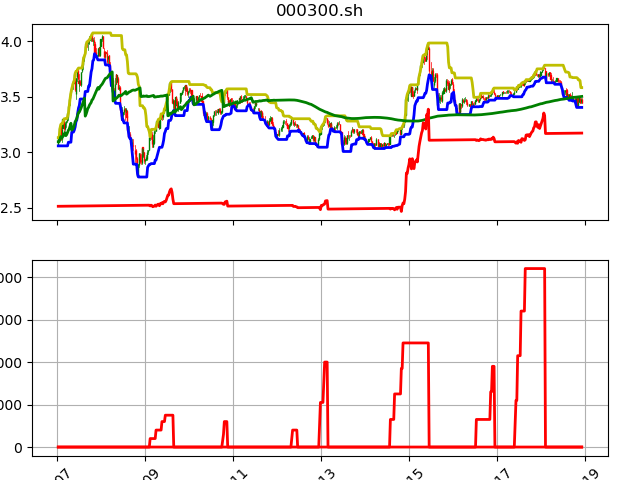
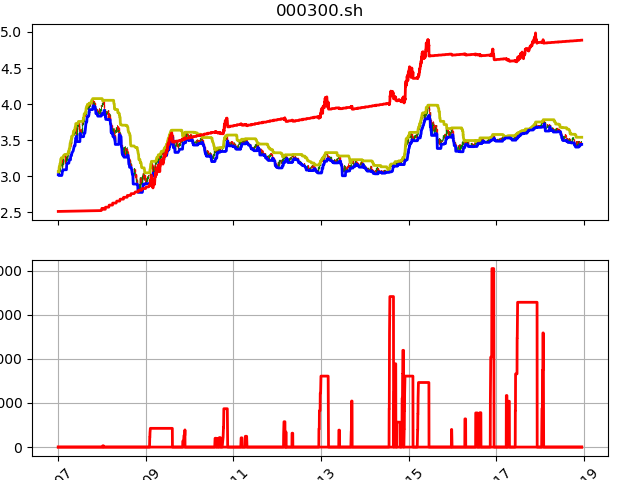
ttindex.

diff --git a/ttindex.py b/ttindex.py
@@ -1,9 +1,17 @@
 #!/usr/bin/env python
 #-*- coding: utf8 -*-
-import numpy as np
+import argparse, numpy as np
 from matplotlib.pylab import date2num, num2date
 import pandas as pf
-import tushare as ts
+from turtle import TurTleIndex
+# import tushare as ts
+# import pandas as pf, tushare as ts
+
+from stockdata import StockDataSet, parse_stock_data
+from account import StockAccount
+from movingave import MovingAverage
+from turtle import TurTleIndex
+
 
 index_code = '000300.sh'
 stock_codes = ['601398.sh', '601988.sh', '601628.sh', '600028.sh', '600036.sh', '601318.sh', 
@@ -11,9 +19,9 @@ stock_codes = ['601398.sh', '601988.sh', '601628.sh', '600028.sh', '600036.sh', 
 	'600519.sh', '600019.sh', '600050.sh', '600104.sh', '601006.sh', '600018.sh', 
 	'000858.sz', '601111.sh', '000002.sz', '600900.sh', '601601.sh', '601991.sh' ]
 
-# https://tushare.pro/
-ts.set_token("e2a71ab976c499825f6f48186f24700f70e0f13af933e2f508684cc0")
-pro = ts.pro_api()
+# # https://tushare.pro/
+# ts.set_token("e2a71ab976c499825f6f48186f24700f70e0f13af933e2f508684cc0")
+# pro = ts.pro_api()
 
 # df = pro.index_weight(index_code='399300.SZ', start_date='20180901', end_date='20180930')
 # print(df)
@@ -22,7 +30,11 @@ if __name__ == "__main__":
     dataset = StockDataSet()
     startdate = '20180101'
     enddate = '20181201'
-    stype = 'stock'
+
+    long_cycle = 55
+    short_cycle= 20
+
+    stock_datas = {}
 
     parser = argparse.ArgumentParser(description="show example")
     parser.add_argument("-s", "--start_date", help="start date")
@@ -33,3 +45,30 @@ if __name__ == "__main__":
         startdate = ARGS.start_date
     if ARGS.end_date:
         enddate = ARGS.end_date
+
+## 准备数据
+    index_data = dataset.load(index_code, startdate, enddate, 'index', 'daily')
+    for code in stock_codes:
+        stock_datas[code] = dataset.load(code, startdate, enddate, 'stock', 'daily')
+
+## 计算指标
+    dates, data_list, ave_price, volumes = parse_stock_data(index_data)
+    data_table = np.transpose( data_list )
+    wavema = MovingAverage(data_table[2] - data_table[3], short_cycle)
+    wvma20 = wavema.ma_indexs[short_cycle]
+
+    turtle = TurTleIndex(data_table[2], data_table[3], long_cycle, short_cycle)
+    h55 = turtle.high_indexs[long_cycle]
+    l20 = turtle.low_indexs[short_cycle]
+
+    for code in stock_codes:
+        dates, data_list, ave_price, volumes = parse_stock_data(stock_datas[code])
+        data_table = np.transpose( data_list )
+        wavema = MovingAverage(data_table[2] - data_table[3], short_cycle)
+        wvma20 = wavema.ma_indexs[short_cycle]
+
+        turtle = TurTleIndex(data_table[2], data_table[3], long_cycle, short_cycle)
+        h55 = turtle.high_indexs[long_cycle]
+        l20 = turtle.low_indexs[short_cycle]
+
+

diff --git a/turtle.py b/turtle.py
@@ -10,8 +10,9 @@ import math
 
 from stockdata import StockDataSet, parse_stock_data
 from account import StockAccount
+from movingave import MovingAverage
 
-fixed_invest = 0#1000
+fixed_invest = 3000
 init_invest  = 100000
 
 
@@ -162,14 +163,14 @@ def turtle_test(account, code, stock_data, stype = 'stock', long_cycle = 20, sho
         # else:
         #     up240 = wvma20[n]*2 < long_price - data_list[n][3]
 
-        up240 = data_list[n][3] < long_price - wvma20[n]*3
-        if long_count > 0 and (data_list[n][3] < l20[n] or up240):
+        stop_loss = data_list[n][3] < long_price - wvma20[n]*3
+        if long_count > 0 and (data_list[n][3] < l20[n] or stop_loss):
             volume = account.stocks.at[code, 'volume']
             account.Order(code, _open, -volume, _date)
             long_count = 0
 
         if h55[n] < data_list[n][2] and not long_count:
-            cash_unit = account.cash * .01 * h55[n] / wvma20[n]
+            cash_unit = account.cash * .007 * h55[n] / wvma20[n]
             # cash_unit = account.cash * 0.5
             # cash_unit = account.cash * min(0.01 * h55[n] / wvma20[n], 0.5)
             if _open < h55[n]:
@@ -244,8 +245,8 @@ def turtle_test(account, code, stock_data, stype = 'stock', long_cycle = 20, sho
 
     plt.xlabel("date")
     plt.grid()
-    plt.savefig("turtle2055.png")
-    # plt.show()
+    plt.savefig("./images/turtle2055.png")
+    plt.show()
 
 if __name__ == "__main__":
     dataset = StockDataSet()
@@ -277,11 +278,10 @@ if __name__ == "__main__":
 
     for code in stock_codes:
         stock_data = dataset.load(code, startdate, enddate, stype, time_unit)
-        turtle_test(account, code, stock_data, stype, 20, 10)
+        turtle_test(account, code, stock_data, stype, 55, 20)
+
 
         # print(account.cash, account.market_value, account.cost, account.credit)
-
-
 
         # if long_count > 0 and data_list[n][3] < l20[n]:
         #     volume = account.stocks.at[code, 'volume']

diff --git a/account.py b/account.py
@@ -77,7 +77,7 @@ class StockAccount:
 
 
     def ProfitDaily(self):
-        self.cash *= 1.0001
+        self.cash *= 1.00005
         self.credit *= 1.0003
 
     def Order(self, code, price, volume, order_time):
